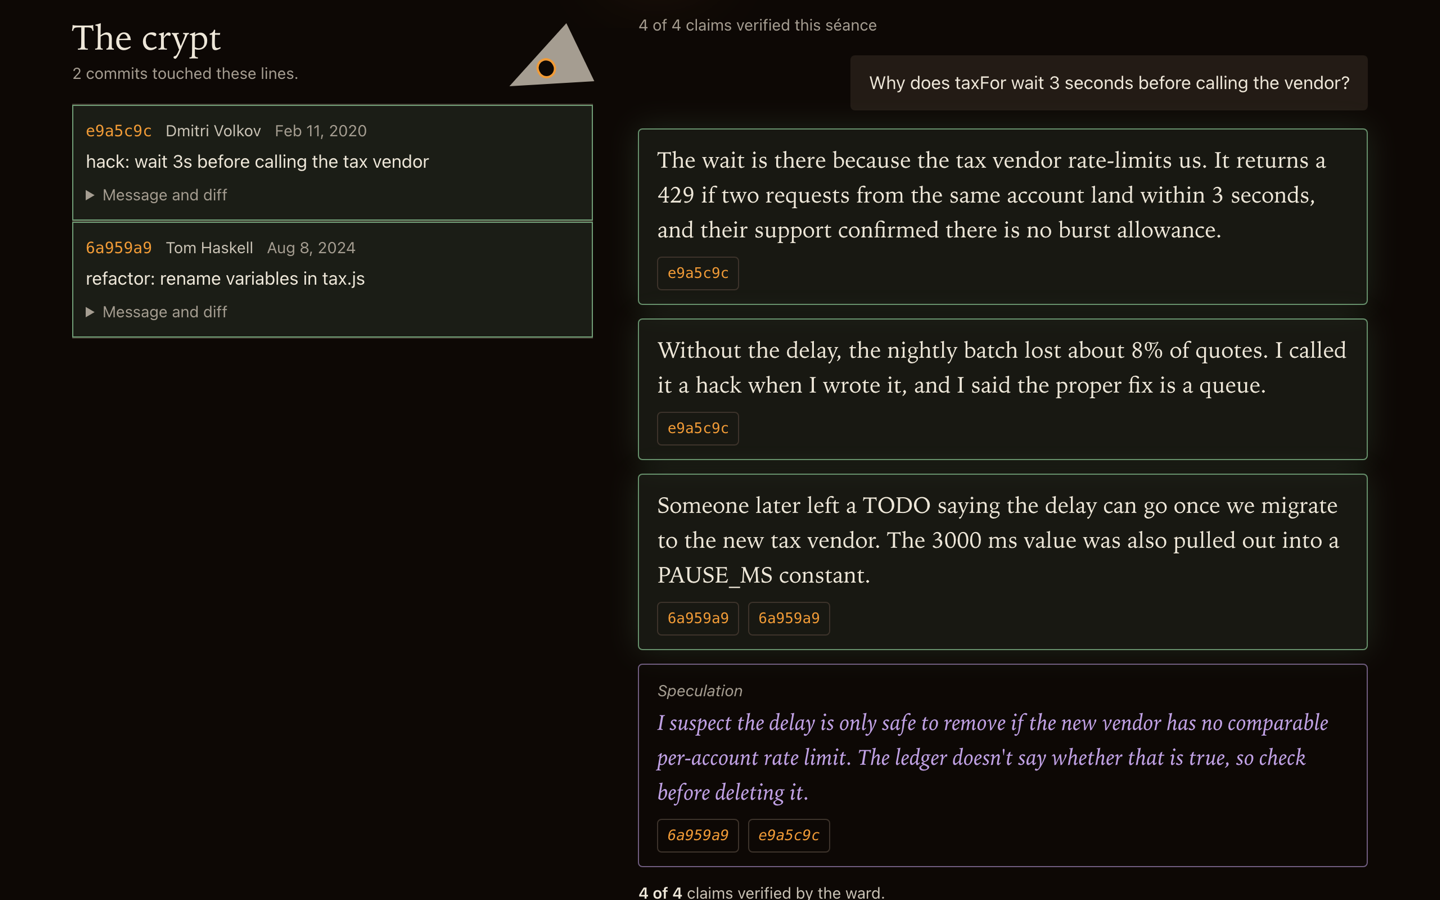
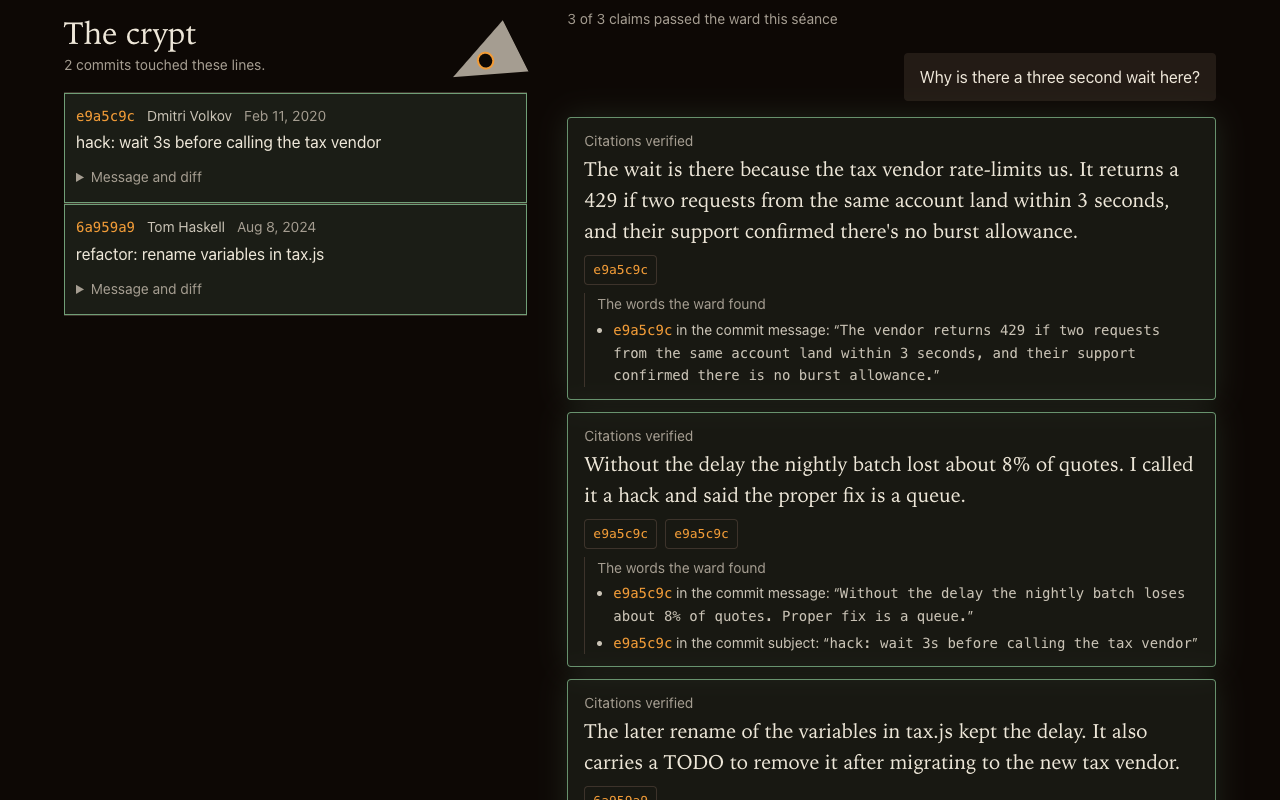
README screenshots recaptured from the final page (headless Chromium, real model key); first browser check of the new layout
Checked by hand at 1280, 768, 390 and 320 px: the Summon button is above
the fold at 1280x800, nothing reaches past the right edge on the landing
page or after a summon and a planted claim, the guide is numbered, the
counter stays in view, no console errors. Not checked in a browser:
keyboard focus, reduced motion, forced colours, the wake-up retry. No Kiro
session; no code changed.

diff --git a/README.md b/README.md
@@ -8,8 +8,6 @@ Built with Kiro for Kiroween 2026 (category: Costume Contest).
 
 ![The Séance landing page](docs/screens/1280-1-landing.png)
 
-_Captured 2026-11-09. The page has changed since (see [Screens](#screens)); this capture still shows a GitHub token field and wording that are gone._
-
 ## What it does
 
 - **The crypt.** An evidence ledger from `git blame --porcelain` and `git log -L` (renames followed): each commit's message, author, date, diff hunk and `#123` references. No AI is involved in this step. The page shows the line you asked about above it.
@@ -30,13 +28,15 @@ It proves that each citation is real and each quote is really in the cited commi
 
 ## Screens
 
-**These captures are from 2026-11-09 and predate the changes of 2026-11-11.** The page now also has the guide, "The line in question", "The words the ward found" under each claim, the haunting map and the possessed sample; some things shown are gone or reworded: the GitHub token field was removed, the quote field is no longer optional, quotes now appear under every claim, and the tallies and the ward report read "passed the ward" instead of "claims verified". They will be recaptured.
+Captured 2026-11-11 from the app running locally with a real model key (headless Chromium, 1280x800).
 
-| Ghost answer (before quotes were mandatory)                       | A planted false memory, refused                                        |
-| ----------------------------------------------------------------- | ---------------------------------------------------------------------- |
-| ![Ghost answer](docs/screens/1280-2-ghost-answer.png)             | ![Ward refuses an invented hash](docs/screens/1280-3-ward-refuses.png) |
-| **A misquote of a real commit, refused**                          | **The exorcism: haunting score and plan**                              |
-| ![Ward refuses a misquote](docs/screens/1280-4-ward-misquote.png) | ![Exorcism score](docs/screens/1280-5-exorcism.png)                    |
+| After the summon: the line in question, the crypt, the guide | Ghost answer, with the words the ward found                 |
+| ------------------------------------------------------------ | ----------------------------------------------------------- |
+| ![The guide](docs/screens/1280-8-guide.png)                  | ![Ghost answer](docs/screens/1280-2-ghost-answer.png)       |
+| **A planted false memory, refused**                          | **The possessed ghost: every injected order refused**       |
+| ![Ward refuses](docs/screens/1280-3-ward-refuses.png)        | ![Possessed ghost](docs/screens/1280-4-possessed-ghost.png) |
+| **The haunting map**                                         | **The exorcism: haunting score and plan**                   |
+| ![Haunting map](docs/screens/1280-7-haunting-map.png)        | ![Exorcism score](docs/screens/1280-5-exorcism.png)         |
 
 Mobile (390 px): [docs/screens/390-1-landing.png](docs/screens/390-1-landing.png). Refactor steps: [docs/screens/1280-6-plan.png](docs/screens/1280-6-plan.png).
 
@@ -106,7 +106,7 @@ Limits:
 
 Everything under [`.kiro/`](.kiro) is committed, and [`.kiro/README.md`](.kiro/README.md) says plainly what Kiro did, what was done by hand, and where Kiro was wrong. Raw output of the Kiro sessions is in [`docs/kiro-evidence/`](docs/kiro-evidence) (one failed V3 run on 2026-11-09 is described there but not kept).
 
-- **Specs.** Ten specs with EARS requirements, a design and tasks: `evidence-ledger`, `ghost-verifier`, `exorcism-plan`, `spooky-ui`, `ward-report`, `model-rate-limit`, and, written by Kiro in V3 spec mode on 2026-11-11, `ward-hardening`, `first-seance`, `haunting-map` and `seance-mcp`. 581 of 585 task items are ticked. Of the four open ones, three need a person looking at the page in a browser and one is a traceability check that depends on one of them.
+- **Specs.** Ten specs with EARS requirements, a design and tasks: `evidence-ledger`, `ghost-verifier`, `exorcism-plan`, `spooky-ui`, `ward-report`, `model-rate-limit`, and, written by Kiro in V3 spec mode on 2026-11-11, `ward-hardening`, `first-seance`, `haunting-map` and `seance-mcp`. 581 of 585 task items are ticked. The four open ones are three browser checklists (only partly covered by a headless Chromium run at the end) and one traceability check that depends on one of them.
 - **Audits that became specs.** Kiro's read-only security review showed the ward verified less than the page promised; that became `ward-hardening`. Its first-run audit from a judge's seat became `first-seance`. Its accessibility audit was fixed test-first. After the work, the accessibility and first-run audits were run again on the result, and the inquisitor agent attacked the ward twice; the findings of each pass were fixed.
 - **Custom agents with hooks.** `warden` builds test-first and gets a typecheck after every file write and the full suite when it stops. `inquisitor`, read-only and on a different model family, re-attacks the ward after a change. `archaeologist` answers questions about history and has its own claims checked by the ward.
 - **MCP.** The repository's `seance` server gives Kiro the ledger and the ward as tools, next to the git and filesystem servers.

diff --git a/.kiro/README.md b/.kiro/README.md
@@ -119,7 +119,7 @@ Everything above was built on the free plan's 50 credits with small models. On 2
 
 Outside the specs: the rest of the accessibility audit was fixed test-first (`docs/kiro-evidence/a11y-fixes-session.txt`); seven of the inquisitor's eight first-pass findings were fixed with an addendum in each affected spec (the eighth, `X-Forwarded-For`, is a documented open risk), and so were the findings of its second pass; and at the end Kiro audited the finished page again, the layout by reading the CSS at five viewport sizes and the first-run path click by click, and the findings of both were fixed in a polish session (`reaudit-layout-session.txt`, `reaudit-first-run-session.txt`, `polish-session.txt`). Kiro also rewrote the four steering files against the code and added `testing.md` and `mcp-server.md` (`steering-sync-session.txt`).
 
-All ten specs together: 581 of 585 task items ticked. The four open items are three checks that need a person looking at the page in a browser, and one traceability item that depends on one of them. 1,420 tests.
+All ten specs together: 581 of 585 task items ticked. The four open items are three browser checklists (partly covered by the headless run described below, so left unticked) and one traceability item that depends on one of them. 1,420 tests.
 
 ### Where Kiro was right when the instructions were wrong
 
@@ -137,13 +137,14 @@ All ten specs together: 581 of 585 task items ticked. The four open items are th
 - In non-interactive V3 runs, shell and MCP calls are denied unless `--trust-all-tools` is passed, whatever the agent file allows. The inquisitor therefore reviewed by reading only, and the archaeologist's V3 run needed `--trust-all-tools`.
 - The first "Blame the wrong author" preset said "wrote this wait" on any repository, and the map's copy stated three of six limits (Kiro reported the second itself). Both were corrected by hand.
 - The numbers in one task (`recorded-limits`) could not produce the case they were meant to test; Kiro worked around it in the test and said so.
-- Audits were done by reading. Nothing was measured in a browser, and the accessibility audit's contrast ratios were worked out by hand by the model.
+- Audits were done by reading, and the accessibility audit's contrast ratios were worked out by hand by the model. A first look in a browser came at the very end (headless Chromium, 2026-11-11, by hand): at 1280x800 the Summon button sits above the fold; at 768, 390 and 320 px no element reaches past the right edge on the landing page or after a summon and a planted claim; the guide is numbered; the counter stays in view; no console errors. The README screenshots were recaptured in that run. Not checked in a browser: keyboard focus order and rings, reduced motion, forced colours, the wake-up retry against a restarted server.
 - The Context7 power was tried again on 3.2.0 to check the MCP SDK's documentation. As on 3.1.0, the power activated but its MCP server was not connected in a non-interactive session; Kiro stopped instead of answering from memory (`powers-context7-retry-session.txt`).
 
 ### Done by hand
 
 - Recording: both test fixtures and the eight recordings come from real model calls made with a real key (`scripts/record-plan-fixture.ts`, `scripts/record-answers.ts`). Kiro never called the model and never edited those files.
 - Review: every diff was read; `npm test`, typecheck, eslint, prettier and `npm run contrast` were run before each commit; the app was started locally and every route called, with a real key, without a key, and against a small public GitHub repository.
+- The browser check and the README screenshots (headless Chromium, at the end).
 - Small edits: the wording fixes listed above, eslint coverage for `scripts/*.ts`, the `/review-evidence` hook text, the archaeologist agent file (from the `seance-mcp` design), the pinned dependencies (jsdom, zod 3.25.76, the MCP SDK), and the documentation.
 - The decision to leave `X-Forwarded-For` as an open risk: the hosting proxy chain is not verified, and a wrong guess would put every visitor in one rate-limit bucket.
 

diff --git a/docs/drafts/DEVPOST.md b/docs/drafts/DEVPOST.md
@@ -151,6 +151,6 @@ What followed, all through Kiro CLI 3.2.0 on `claude-opus-5.5`, mostly in the V3
 - **Séance as an MCP server.** Our `archaeologist` Kiro agent now sends its own claims to the ward before stating them. A real run with all tools trusted found a bug in our server.
 - **A second opinion.** A new read-only agent, `inquisitor`, on a different model family, re-attacked the result twice. The first pass confirmed eight findings (seven fixed; `X-Forwarded-For` is a documented open risk), the second six more, all fixed. The accessibility and first-run audits were then repeated on the finished page.
 
-What Kiro got right that we did not: it stopped and asked instead of skipping tests; it broke the verifier on purpose to prove the adversarial tests could fail; it found that a parser fix we suggested was still ambiguous and wrote a sound one. What went wrong: one session was cut off by a throttle; the V3 engine denies shell and MCP calls in non-interactive runs unless everything is trusted; Kiro cannot edit its own settings directory; and nobody has yet looked at the new page in a browser, which the docs say plainly.
+What Kiro got right that we did not: it stopped and asked instead of skipping tests; it broke the verifier on purpose to prove the adversarial tests could fail; it found that a parser fix we suggested was still ambiguous and wrote a sound one. What went wrong: one session was cut off by a throttle; the V3 engine denies shell and MCP calls in non-interactive runs unless everything is trusted; Kiro cannot edit its own settings directory; and the new page was only looked at in a browser once, at the very end (headless Chromium, by hand), which the docs say plainly.
 
 Numbers: ten specs, 581 of 585 task items ticked (three of the open ones need a browser), 1,420 tests, about 2,500 of the 4,000 bonus credits (the meter is shared with another session on the account).

diff --git a/docs/kiro-evidence/README.md b/docs/kiro-evidence/README.md
@@ -51,6 +51,6 @@ Bonus credits `kiroween-26` (4,000), read with `/usage`. **The meter is shared w
 - Context7 documentation was never actually fetched through the power (MCP server not connected).
 - The IDE save hooks (`PostFileSave`) have not been seen firing. The CLI agent hooks in `warden.json` have: `postToolUse` and `stop` on 3.1.0 V2, and all three, `agentSpawn` included, on 3.2.0 V3.
 - Kiro Crew ran with `--approval yolo` in an isolated home; its dashboard was not opened.
-- Nobody has looked at the page in a browser since the 2026-11-11 changes. Behaviour is covered by jsdom tests that run `public/app.js` unmodified against the real server; layout, wrapping at 320 px and the hero's fit at 1280x800 were only reasoned from the CSS.
+- The page was looked at in a browser only once, at the very end and by hand (headless Chromium: screenshots at 1280, 768, 390 and 320 px, an overflow measurement, console errors). Keyboard focus, reduced motion, forced colours and the wake-up retry against a restarted server were not checked in a browser; they rest on jsdom tests and on reading the CSS.
 - In the V3 engine, non-interactive runs deny shell and MCP tool calls unless `--trust-all-tools` is passed, whatever the agent file's `allowedTools` and `permissions` say (seen with the inquisitor and the archaeologist). The V2 engine honours `allowedTools` for MCP tools.
 - `kiro-cli agent validate` checks JSON types only; it accepts tool references and capabilities that do not exist.
